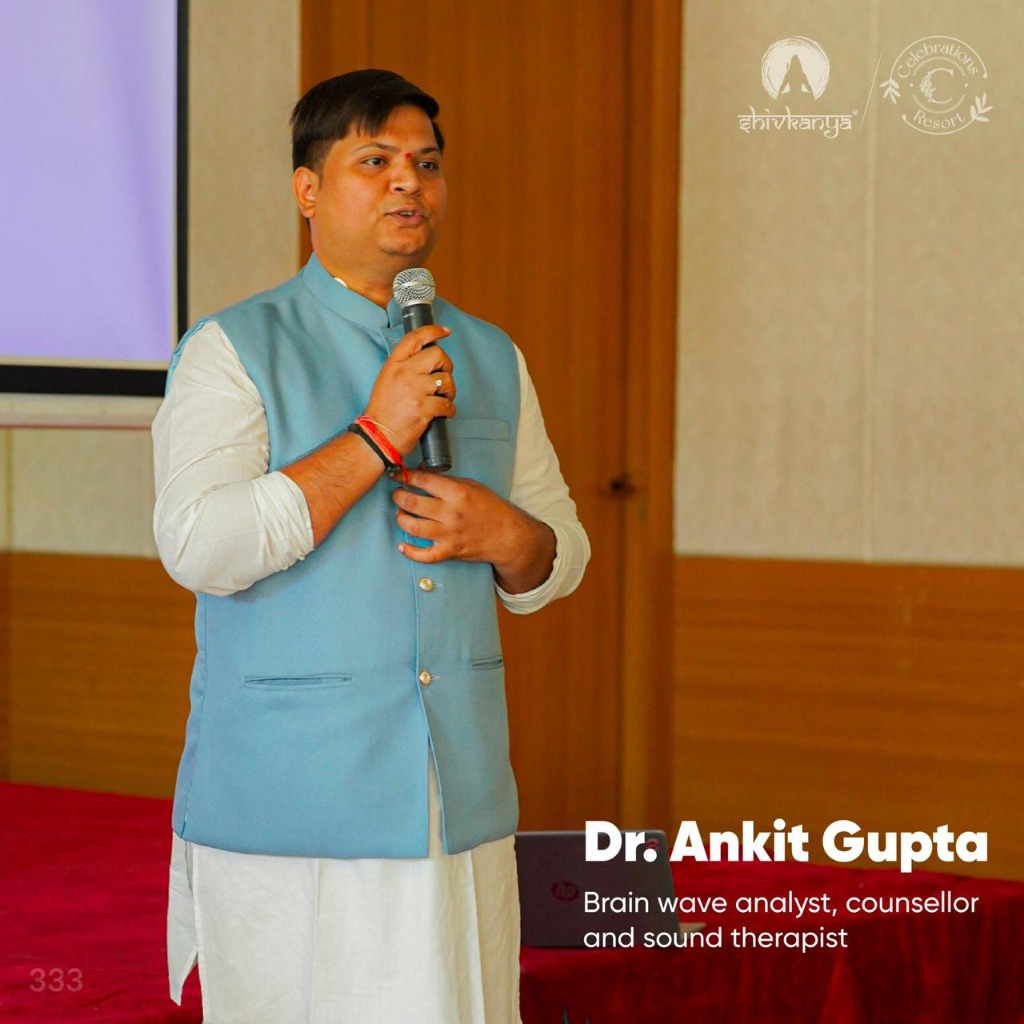
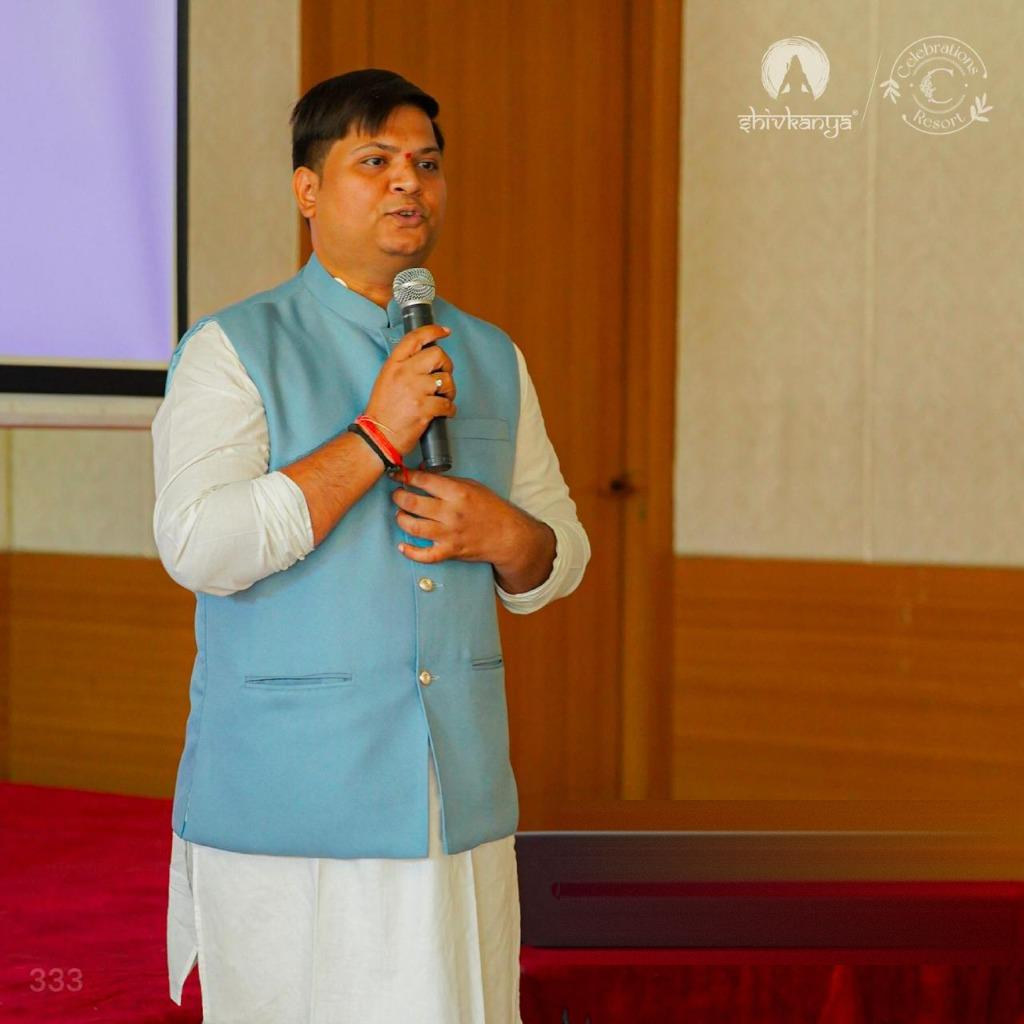
Update website pages and components

Changed region(s): [[0.5625, 0.7812, 0.9688, 0.9375]]

diff --git a/src/routes/auth.tsx b/src/routes/auth.tsx
@@ -15,18 +15,33 @@ export const Route = createFileRoute("/auth")({
 function AuthPage() {
   const navigate = useNavigate();
   const router = useRouter();
+  const [mode, setMode] = useState<"signin" | "signup">("signin");
   const [email, setEmail] = useState("");
   const [password, setPassword] = useState("");
   const [busy, setBusy] = useState(false);
   const [error, setError] = useState<string | null>(null);
+  const [notice, setNotice] = useState<string | null>(null);
 
   async function onSubmit(e: React.FormEvent) {
     e.preventDefault();
     setError(null);
+    setNotice(null);
     setBusy(true);
     try {
-      const { error } = await supabase.auth.signInWithPassword({ email, password });
-      if (error) throw error;
+      if (mode === "signup") {
+        const { data, error } = await supabase.auth.signUp({ email, password });
+        if (error) throw error;
+        if (!data.session) {
+          setNotice(
+            "Account created. Check your email to confirm it, then sign in — if this is the first account ever created here, it will automatically get admin access.",
+          );
+          setBusy(false);
+          return;
+        }
+      } else {
+        const { error } = await supabase.auth.signInWithPassword({ email, password });
+        if (error) throw error;
+      }
       await router.invalidate();
       navigate({ to: "/admin" });
     } catch (err: any) {
@@ -36,11 +51,23 @@ function AuthPage() {
     }
   }
 
+  function toggleMode() {
+    setMode((m) => (m === "signin" ? "signup" : "signin"));
+    setError(null);
+    setNotice(null);
+  }
+
   return (
     <div className="min-h-screen bg-gradient-soft flex items-center justify-center px-4 py-16">
       <div className="w-full max-w-md glass-card rounded-2xl p-8">
-        <h1 className="font-display text-2xl font-bold text-navy">Admin sign in</h1>
-        <p className="mt-1 text-sm text-muted-foreground">Sign in to manage site content.</p>
+        <h1 className="font-display text-2xl font-bold text-navy">
+          {mode === "signin" ? "Admin sign in" : "Create admin account"}
+        </h1>
+        <p className="mt-1 text-sm text-muted-foreground">
+          {mode === "signin"
+            ? "Sign in to manage site content."
+            : "Only the very first account ever created here becomes admin — if one already exists, this new account will not get admin access."}
+        </p>
         <form onSubmit={onSubmit} className="mt-6 space-y-4">
           <div>
             <label className="text-xs font-semibold uppercase tracking-wider text-muted-foreground">Email</label>
@@ -54,16 +81,27 @@ function AuthPage() {
             <label className="text-xs font-semibold uppercase tracking-wider text-muted-foreground">Password</label>
             <input
               type="password" required value={password} onChange={(e) => setPassword(e.target.value)}
-              autoComplete="current-password"
+              autoComplete={mode === "signin" ? "current-password" : "new-password"}
+              minLength={mode === "signup" ? 6 : undefined}
               className="mt-1 w-full rounded-lg border border-input bg-white px-3 py-2.5 text-sm"
             />
           </div>
           {error && <p className="rounded-lg bg-red-50 px-3 py-2 text-sm text-red-700">{error}</p>}
+          {notice && <p className="rounded-lg bg-emerald-50 px-3 py-2 text-sm text-emerald-700">{notice}</p>}
           <button disabled={busy}
             className="w-full rounded-full bg-navy px-5 py-3 text-sm font-semibold text-white transition hover:bg-navy-soft disabled:opacity-60">
-            {busy ? "Please wait…" : "Sign in"}
+            {busy ? "Please wait…" : mode === "signin" ? "Sign in" : "Create account"}
           </button>
         </form>
+        <button
+          type="button"
+          onClick={toggleMode}
+          className="mt-4 w-full text-center text-xs font-medium text-muted-foreground underline-offset-2 hover:text-navy hover:underline"
+        >
+          {mode === "signin"
+            ? "Need to create the first admin account? Sign up"
+            : "Already have an account? Sign in"}
+        </button>
       </div>
     </div>
   );

diff --git a/src/routes/index.tsx b/src/routes/index.tsx
@@ -167,14 +167,6 @@ function StatsStrip() {
         <div className="grid items-end gap-10 lg:grid-cols-12 lg:gap-16">
           {/* Left Column — Headline */}
           <div className="lg:col-span-7" data-aos="fade-right">
-            {/* Thin kicker line */}
-            <div className="mb-5 flex items-center gap-3">
-              <span className="h-px w-10 bg-teal" />
-              <span className="text-[11px] font-bold uppercase tracking-[0.25em] text-teal">
-                Precision Neuroscience
-              </span>
-            </div>
-
             <h2 className="font-accent text-4xl font-semibold not-italic leading-[1.15] tracking-[-0.01em] text-white sm:text-5xl lg:text-[3.5rem]">
               <span className="relative mr-1 inline-block translate-y-[-2px] rounded-xl bg-gradient-to-r from-orange via-amber-400 to-orange px-3 py-0.5 font-display text-[0.8em] font-extrabold not-italic text-navy shadow-lg shadow-orange/25">
                 STOP
@@ -194,7 +186,7 @@ function StatsStrip() {
             >
               <span className="font-semibold text-white">Brain Waves Tech</span> deploys{" "}
               <span className="font-medium text-teal">USA-patented EEG telemetry</span> to quantify
-              your state of mind in under 2 minutes — with clinically verified accuracy exceeding{" "}
+              your state of mind in just 2 minutes — with verified accuracy exceeding{" "}
               <span className="font-display text-lg font-extrabold text-teal sm:text-xl">92%</span>.
             </p>
           </div>
@@ -208,7 +200,7 @@ function StatsStrip() {
 
               <div className="relative text-center">
                 <p className="text-[11px] font-bold uppercase tracking-[0.2em] text-slate-400">
-                  Clinical Analytical Accuracy
+                  Analytical Accuracy
                 </p>
                 <p className="mt-3 font-display text-7xl font-extrabold tracking-tight text-white sm:text-8xl">
                   92<span className="text-teal">%</span><span className="text-3xl text-teal sm:text-4xl">+</span>
@@ -712,10 +704,6 @@ function VideoTestimonials() {
         <span className="inline-flex h-16 w-16 items-center justify-center rounded-full bg-white text-navy shadow-xl transition duration-300 group-hover:scale-110 group-hover:shadow-2xl">
           <Play className="ml-0.5 h-7 w-7" />
         </span>
-      </div>
-      <div className="absolute inset-x-0 bottom-0 p-5">
-        <p className="text-base font-semibold text-white">{v.title}</p>
-        <p className="text-sm text-white/80">{v.author}</p>
       </div>
     </button>
   );

diff --git a/src/routes/practitioner.tsx b/src/routes/practitioner.tsx
@@ -49,8 +49,8 @@ const benefits = [
     "Reduce initial evaluation time from 50 minutes to 2 minutes, allowing you to serve more clients while providing instant, visual proof of their neural baseline.",
   ],
   [
-    "15 Quantified Mind Parameters",
-    "Deliver actionable, clinical-grade reports covering 5 core wave spectrum bands (Alpha, Beta, Theta, Delta, Gamma) and 10 metric indicators including Study Focus, Stress Reduction, Inner Calm, and Empathy.",
+    "14 Quantified Mind Parameters",
+    "Deliver actionable, clinical-grade reports covering 5 core wave spectrum bands (Alpha, Beta, Theta, Delta, Gamma) and 9 metric indicators including Study Focus, Stress Reduction, Inner Calm, and Empathy.",
   ],
   [
     "Turn-Key Revenue Expansion",
@@ -440,7 +440,7 @@ function PractitionerPage() {
             </span>
           </>
         }
-        sub="Traditional mental health intake relies on subjective questionnaires, long analytical sittings, and patient trust barriers. By becoming a Certified Partner with Brain Waves Tech, you gain the complete ecosystem: patented AI software, medical-grade BCI hardware, and clinical certification, allowing you to identify root-cause mental stress in under 2 minutes with over 92% analytical accuracy."
+        sub="Traditional mental health intake relies on subjective questionnaires, long analytical sittings, and patient trust barriers. By becoming a Certified Partner with Brain Waves Tech, you gain the complete ecosystem: patented AI software, medical-grade BCI hardware, and clinical certification, allowing you to identify root-cause mental stress in just 2 minutes with over 92% analytical accuracy."
         subClassName="mx-auto mt-7 max-w-2xl text-base leading-[1.55] text-white/70"
       />
       <section className="bg-background py-16 lg:py-24">
@@ -559,11 +559,8 @@ function PractitionerPage() {
       </section>
       <section className="bg-white py-16 lg:py-24">
         <div className="mx-auto max-w-3xl px-4 text-center lg:px-8">
-          <p className="text-xs font-bold uppercase tracking-[.18em] text-teal">
-            Practitioner Bundle
-          </p>
-          <h2 className="mt-3 font-display text-3xl font-bold text-navy">
-            The Master Practitioner Bundle Offer
+          <h2 className="font-display text-3xl font-bold text-navy">
+            Get Your Bundle Pricing
           </h2>
           <p className="mt-4 text-muted-foreground">
             Get the BWT-2508 headset, BWT-1408 software, and NFP Certification bundled together at

diff --git a/src/routes/technology.bwt-1408.tsx b/src/routes/technology.bwt-1408.tsx
@@ -85,9 +85,9 @@ const pipeline = [
   },
   {
     step: "STEP 07",
-    badge: "AI Mind Profile",
+    badge: "Mind Profile",
     title: "Instant Session Records & Automated Report Export",
-    text: "Export instant AI-driven Mind Profile reports, compare historical neuro-trends, and formulate targeted sound therapy interventions.",
+    text: "Export instant Mind Profile reports, compare historical neuro-trends, and formulate targeted sound therapy interventions.",
     image: step7,
     Icon: Box,
   },
@@ -387,11 +387,7 @@ function PatentDeepDive() {
         />
         <div className="relative mx-auto grid max-w-6xl gap-12 px-4 lg:grid-cols-[0.85fr_1.15fr] lg:items-center lg:px-8">
           <div className={revealed ? "animate-step-in" : "opacity-0"}>
-            <p className="inline-flex items-center gap-2 rounded-full border border-teal/25 bg-teal/10 px-3 py-1.5 text-[10px] font-bold uppercase tracking-[0.17em] text-teal">
-              <span className="h-1.5 w-1.5 rounded-full bg-teal motion-safe:animate-pulse" /> Patent
-              deep dive
-            </p>
-            <h2 className="mt-5 font-display text-3xl font-extrabold leading-tight tracking-tight text-navy sm:text-4xl">
+            <h2 className="font-display text-3xl font-extrabold leading-tight tracking-tight text-navy sm:text-4xl">
               Causal neuro-analytics via precision time-stamped stimuli.
             </h2>
             <p className="mt-6 leading-7 text-muted-foreground">

diff --git a/src/components/site/ImpactCallout.tsx b/src/components/site/ImpactCallout.tsx
@@ -1,4 +1,4 @@
-import { Quote, Sparkles, CheckCircle2 } from "lucide-react";
+import { Quote } from "lucide-react";
 
 interface ImpactCalloutProps {
   quote: string;
@@ -35,23 +35,6 @@ export function ImpactCallout({
                 />
                 {/* Subtle gradient vignette at bottom */}
                 <div className="absolute inset-0 bg-gradient-to-t from-navy/80 via-transparent to-transparent" />
-              </div>
-
-              {/* Elegant floating photo caption overlay */}
-              <div className="absolute inset-x-3 bottom-3 rounded-2xl border border-white/15 bg-navy/85 p-3.5 shadow-lg backdrop-blur-md sm:inset-x-4 sm:bottom-4 sm:p-4">
-                <div className="flex items-center justify-between gap-2">
-                  <div>
-                    <h4 className="font-display text-sm font-bold text-white sm:text-base">
-                      {author || "Dr. Ankit Gupta"}
-                    </h4>
-                    <p className="text-[11px] font-medium text-teal sm:text-xs">
-                      Founder & CEO • BrainWaves Tech
-                    </p>
-                  </div>
-                  <span className="grid h-8 w-8 place-items-center rounded-full bg-teal/15 text-teal">
-                    <CheckCircle2 className="h-4 w-4" />
-                  </span>
-                </div>
               </div>
             </div>
           </div>

diff --git a/src/routes/products.headband.tsx b/src/routes/products.headband.tsx
@@ -47,8 +47,8 @@ const features = [
   ],
   [
     "All-Day Endurance",
-    "9-Hour Battery for High-Volume Sessions.",
-    "The lightweight internal rechargeable battery delivers up to nine hours of continuous use, supporting back-to-back corporate, classroom, and clinical sessions from a single charge.",
+    "6-Hour Battery for High-Volume Sessions.",
+    "The lightweight internal rechargeable battery delivers up to six hours of continuous use, supporting back-to-back corporate, classroom, and clinical sessions from a single charge.",
   ],
 ];
 
@@ -60,7 +60,7 @@ const specs = [
   ["Setup Time", "2 minutes"],
   ["Wireless Protocol", "Bluetooth 5.2 Low Energy"],
   ["Power System", "Internal Rechargeable Battery"],
-  ["Active Battery Runtime", "Up to 9 Hours"],
+  ["Active Battery Runtime", "Up to 6 Hours"],
   ["Data Quality Rating", "High-Fidelity Signal-to-Noise Ratio (Good/Clinical Grade)"],
   ["Headband Design", "Ergonomic, Adjustable Fixed Position Strap"],
 ];
@@ -126,7 +126,7 @@ function HeadbandPage() {
                 },
                 {
                   icon: BatteryCharging,
-                  label: "9 Hours Continuous Battery",
+                  label: "6 Hours Continuous Battery",
                   sub: "Full-day tracking on a single charge.",
                   color: "#a855f7",
                 },

diff --git a/src/routes/about.tsx b/src/routes/about.tsx
@@ -209,7 +209,7 @@ function MissionPage() {
             <ImpactCallout
               quote="What people say can be influenced by perception; what the brain reveals is objective. Understanding the mind first enables more accurate counselling and personalized care."
               author="Dr. Ankit Gupta"
-              role="Brain Wave Analyst, Counsellor & Sound Therapist • Founder & CEO"
+              role="Founder & CEO • BrainWaves Tech • Brain Wave Analyst, Counsellor & Sound Therapist"
               image="/dr-ankit-speaking.jpg"
             />
           </div>
